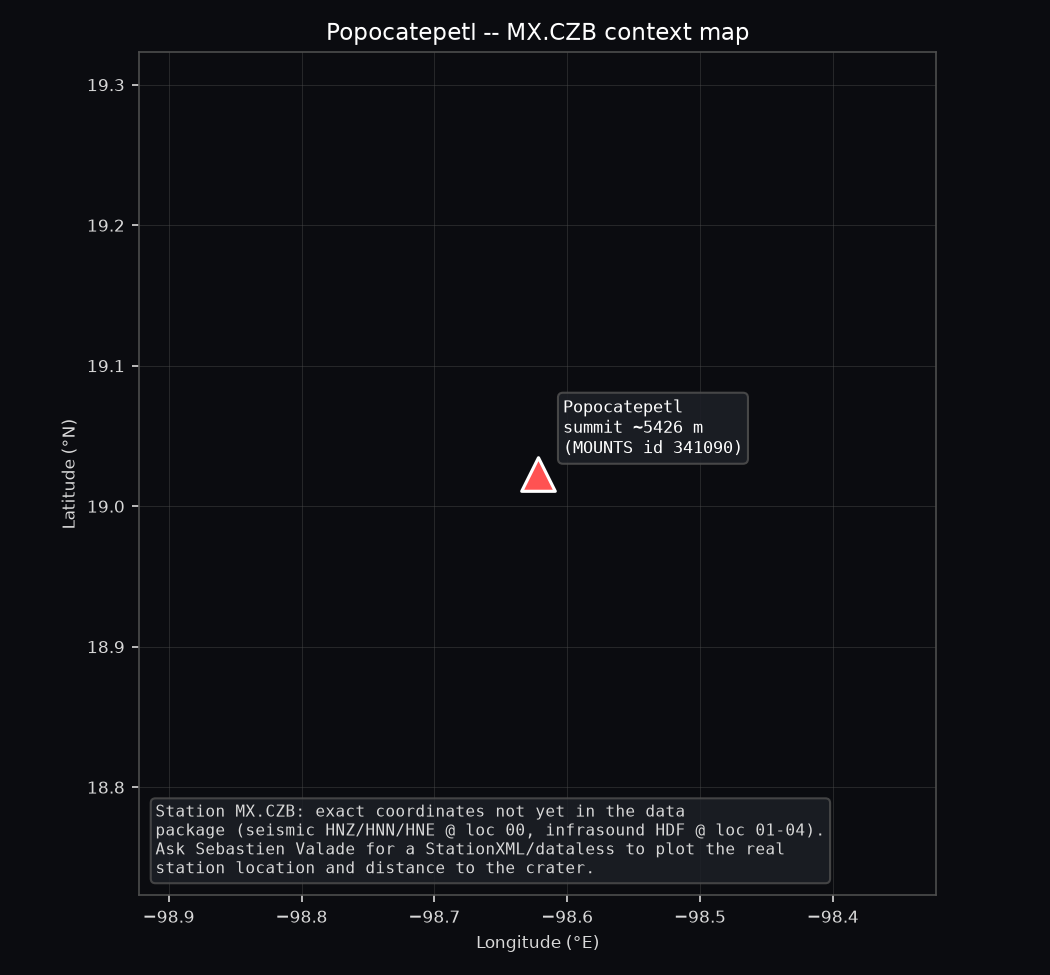
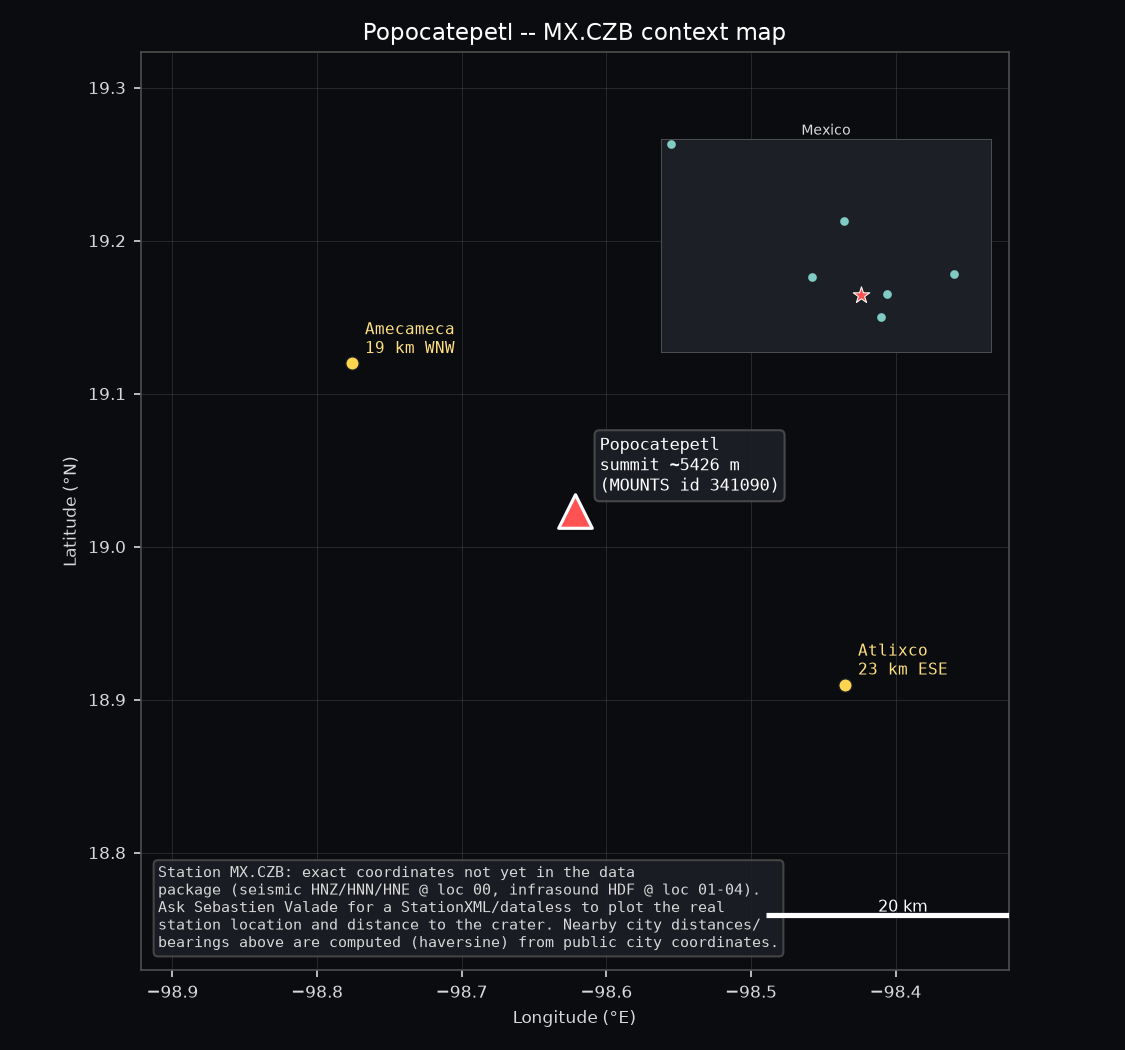
Add real cartography to context map; merge map + satellite time series into one overview figure

diff --git a/POPO01.py b/POPO01.py
@@ -420,39 +420,155 @@ def do_fetch(args):
 # ---------------------------------------------------------------------------
 # Map (single-station location, no country outline asset for Mexico yet)
 # ---------------------------------------------------------------------------
-def do_map():
-    fig, ax = plt.subplots(figsize=(7, 6.5), facecolor=BG_COLOR)
+# Real, well-known reference points used purely to give the map geographic
+# context (city labels + real distances/bearings) -- not an administrative
+# boundary survey. Coordinates are public-knowledge city centers.
+NEARBY_CITIES = [
+    ("Mexico City", 19.4326, -99.1332),
+    ("Puebla",      19.0414, -98.2063),
+    ("Cholula",     19.0638, -98.3020),
+    ("Cuernavaca",  18.9242, -99.2216),
+    ("Amecameca",   19.1197, -98.7756),
+    ("Atlixco",     18.9096, -98.4347),
+]
+
+# Coarser set spanning the whole country, for the "where in Mexico" locator inset.
+MEXICO_LOCATOR_CITIES = [
+    ("Tijuana",     32.5149, -117.0382),
+    ("Monterrey",   25.6866, -100.3161),
+    ("Guadalajara", 20.6597, -103.3496),
+    ("Merida",      20.9674, -89.5926),
+    ("Veracruz",    19.1738, -96.1342),
+    ("Oaxaca",      17.0732, -96.7266),
+]
+
+COMPASS_DIRS = ["N", "NNE", "NE", "ENE", "E", "ESE", "SE", "SSE",
+                "S", "SSW", "SW", "WSW", "W", "WNW", "NW", "NNW"]
+
+
+def haversine_km(lat1, lon1, lat2, lon2):
+    """Great-circle distance in km between two lat/lon points."""
+    r_km = 6371.0
+    p1, p2 = math.radians(lat1), math.radians(lat2)
+    dphi = math.radians(lat2 - lat1)
+    dlambda = math.radians(lon2 - lon1)
+    a = math.sin(dphi / 2) ** 2 + math.cos(p1) * math.cos(p2) * math.sin(dlambda / 2) ** 2
+    return 2 * r_km * math.asin(math.sqrt(a))
+
+
+def bearing_compass(lat1, lon1, lat2, lon2):
+    """16-point compass direction from point 1 towards point 2."""
+    p1, p2 = math.radians(lat1), math.radians(lat2)
+    dlambda = math.radians(lon2 - lon1)
+    x = math.sin(dlambda) * math.cos(p2)
+    y = math.cos(p1) * math.sin(p2) - math.sin(p1) * math.cos(p2) * math.cos(dlambda)
+    brng = (math.degrees(math.atan2(x, y)) + 360) % 360
+    return COMPASS_DIRS[int((brng + 11.25) // 22.5) % 16]
+
+
+def draw_compass_rose(ax, x=0.92, y=0.90, size=0.05):
+    ax.annotate(
+        "N", xy=(x, y), xytext=(x, y - size), xycoords="axes fraction",
+        textcoords="axes fraction", color="white", fontsize=9, weight="bold",
+        ha="center", va="center",
+        arrowprops=dict(arrowstyle="-|>", color="white", lw=1.4),
+    )
+
+
+def draw_scale_bar(ax, lat_for_scale, km=20.0, x=0.06, y=0.06):
+    """Scale bar in data (lon/lat) coordinates, sized so its width equals
+    `km` kilometers at the map's latitude."""
+    km_per_deg_lon = haversine_km(lat_for_scale, 0.0, lat_for_scale, 1.0)
+    width_deg = km / km_per_deg_lon
+    x0, x1 = ax.get_xlim()
+    y0, y1 = ax.get_ylim()
+    bar_x0 = x0 + (x1 - x0) * x
+    bar_y = y0 + (y1 - y0) * y
+    ax.plot([bar_x0, bar_x0 + width_deg], [bar_y, bar_y], color="white", lw=2.5,
+            solid_capstyle="butt", zorder=4)
+    ax.text(bar_x0 + width_deg / 2, bar_y, f"{km:.0f} km", color="white", fontsize=7.5,
+            ha="center", va="bottom", zorder=4)
+
+
+def draw_context_map(ax, compact=False):
+    """Local-scale map centered on the volcano: real nearby cities with
+    computed distance/bearing, compass rose, scale bar. Reused by both the
+    standalone `map` action and the combined satellite overview figure."""
     ax.set_facecolor(BG_COLOR)
+
+    for name, lat, lon in NEARBY_CITIES:
+        dist_km = haversine_km(VOLCANO_LAT, VOLCANO_LON, lat, lon)
+        direction = bearing_compass(VOLCANO_LAT, VOLCANO_LON, lat, lon)
+        ax.scatter([lon], [lat], s=40, marker="o", color="#ffd54f",
+                   edgecolor="#1c1f26", linewidth=0.6, zorder=3)
+        ax.annotate(
+            f"{name}\n{dist_km:.0f} km {direction}",
+            xy=(lon, lat), xytext=(6, 5), textcoords="offset points",
+            color="#ffe082", fontsize=6.5 if compact else 7.5, family="monospace", zorder=3,
+        )
+
     ax.scatter([VOLCANO_LON], [VOLCANO_LAT], s=260, marker="^", color="#ff5252",
-               edgecolor="white", linewidth=1.5, zorder=3)
+               edgecolor="white", linewidth=1.5, zorder=5)
     ax.annotate(
         f"{VOLCANO_NAME}\nsummit ~{VOLCANO_ELEV_M:.0f} m\n(MOUNTS id {MOUNTS_TARGET_ID})",
         xy=(VOLCANO_LON, VOLCANO_LAT), xytext=(12, 10), textcoords="offset points",
-        color="white", fontsize=8, family="monospace",
+        color="white", fontsize=8, family="monospace", zorder=5,
         bbox=dict(boxstyle="round", facecolor="#1c1f26", edgecolor=GRID_COLOR, alpha=0.9),
     )
-    ax.text(
-        0.02, 0.02,
-        f"Station {NETWORK}.{STATION}: exact coordinates not yet in the data\n"
-        f"package (seismic HNZ/HNN/HNE @ loc 00, infrasound HDF @ loc 01-04).\n"
-        f"Ask Sebastien Valade for a StationXML/dataless to plot the real\n"
-        f"station location and distance to the crater.",
-        transform=ax.transAxes, color=FG_COLOR, fontsize=7.5, family="monospace",
-        va="bottom", ha="left",
-        bbox=dict(boxstyle="round", facecolor="#1c1f26", edgecolor=GRID_COLOR, alpha=0.85),
-    )
+    if not compact:
+        ax.text(
+            0.02, 0.02,
+            f"Station {NETWORK}.{STATION}: exact coordinates not yet in the data\n"
+            f"package (seismic HNZ/HNN/HNE @ loc 00, infrasound HDF @ loc 01-04).\n"
+            f"Ask Sebastien Valade for a StationXML/dataless to plot the real\n"
+            f"station location and distance to the crater. Nearby city distances/\n"
+            f"bearings above are computed (haversine) from public city coordinates.",
+            transform=ax.transAxes, color=FG_COLOR, fontsize=7, family="monospace",
+            va="bottom", ha="left",
+            bbox=dict(boxstyle="round", facecolor="#1c1f26", edgecolor=GRID_COLOR, alpha=0.85),
+        )
+
     pad = 0.3
     ax.set_xlim(VOLCANO_LON - pad, VOLCANO_LON + pad)
     ax.set_ylim(VOLCANO_LAT - pad, VOLCANO_LAT + pad)
     ax.set_aspect(1.0 / max(math.cos(math.radians(VOLCANO_LAT)), 1e-6))
     ax.set_xlabel("Longitude (\u00b0E)", color=FG_COLOR, fontsize=8)
     ax.set_ylabel("Latitude (\u00b0N)", color=FG_COLOR, fontsize=8)
-    ax.set_title(f"{VOLCANO_NAME} -- {NETWORK}.{STATION} context map", color="white", fontsize=11)
+    title = f"{VOLCANO_NAME} -- {NETWORK}.{STATION} context map"
+    ax.set_title(title if not compact else title + " (real nearby cities, distances in km)",
+                 color="white", fontsize=11 if not compact else 10)
     ax.grid(True, color=GRID_COLOR, linewidth=0.4, alpha=0.5)
     ax.tick_params(colors=FG_COLOR, labelsize=8)
     for spine in ax.spines.values():
         spine.set_color(GRID_COLOR)
 
+    draw_compass_rose(ax)
+    scale_x = 0.06 if compact else 0.72
+    draw_scale_bar(ax, VOLCANO_LAT, km=20.0, x=scale_x)
+
+    # "Where in Mexico" locator inset -- real coordinates of major cities
+    # spanning the country, plotted to true relative scale, with the volcano
+    # marked, so the local map above isn't floating in an unlabeled void.
+    inset = ax.inset_axes([0.60, 0.60, 0.38, 0.38] if not compact else [0.66, 0.62, 0.32, 0.34])
+    inset.set_facecolor("#1c1f26")
+    for name, lat, lon in MEXICO_LOCATOR_CITIES:
+        inset.scatter([lon], [lat], s=10, color="#80cbc4", zorder=2)
+    inset.scatter([VOLCANO_LON], [VOLCANO_LAT], s=70, marker="*", color="#ff5252",
+                  edgecolor="white", linewidth=0.5, zorder=3)
+    inset.set_xlim(-118, -86)
+    inset.set_ylim(14, 33)
+    inset.set_aspect(1.0 / max(math.cos(math.radians(23)), 1e-6))
+    inset.set_title("Mexico", color=FG_COLOR, fontsize=6.5, pad=2)
+    inset.set_xticks([])
+    inset.set_yticks([])
+    for spine in inset.spines.values():
+        spine.set_color(GRID_COLOR)
+        spine.set_linewidth(0.5)
+
+
+def do_map():
+    fig, ax = plt.subplots(figsize=(7.5, 7), facecolor=BG_COLOR)
+    draw_context_map(ax)
     map_path = os.path.join(MAP_DIR, "station_map.png")
     fig.tight_layout()
     fig.savefig(map_path, dpi=150, facecolor=fig.get_facecolor())
@@ -1014,11 +1130,18 @@ def do_satellite_fetch(sat_types, target_id, time_filter, debug=False):
 
 
 def do_satellite_plot(series, target_id):
+    """Combined overview figure: a real-geography context map on top (so the
+    time series below aren't floating without any sense of place), followed
+    by one panel per satellite series."""
     n = len(series)
-    fig, axes = plt.subplots(n, 1, figsize=(11, max(5, 2.2 * n)), facecolor=BG_COLOR, sharex=False)
-    if n == 1:
-        axes = [axes]
-    for ax, sat_type in zip(axes, series):
+    fig = plt.figure(figsize=(11, 6.5 + 2.1 * n), facecolor=BG_COLOR)
+    gs = fig.add_gridspec(n + 1, 1, height_ratios=[2.4] + [1.0] * n, hspace=0.55)
+
+    map_ax = fig.add_subplot(gs[0])
+    draw_context_map(map_ax, compact=True)
+
+    for i, sat_type in enumerate(series):
+        ax = fig.add_subplot(gs[i + 1])
         times, values = series[sat_type]
         _, name, color, _ = SAT_TYPE_INFO[sat_type]
         dt = [datetime.utcfromtimestamp(t) for t in times]
@@ -1026,9 +1149,11 @@ def do_satellite_plot(series, target_id):
         ax.set_title(name, color="white", fontsize=10, loc="left")
         style_axes(ax)
         ax.grid(True, color=GRID_COLOR, linewidth=0.4, alpha=0.5)
-    fig.suptitle(f"{VOLCANO_NAME} -- MOUNTS satellite time series (target_id {target_id})",
-                 color="white", fontsize=11)
-    fig.tight_layout(rect=(0, 0, 1, 0.96))
+    fig.suptitle(f"{VOLCANO_NAME} -- location + MOUNTS satellite time series (target_id {target_id})",
+                 color="white", fontsize=12)
+    # Not tight_layout(): inset_axes (the Mexico locator) isn't compatible with it
+    # and produces a large blank gap above the map -- position panels manually instead.
+    fig.subplots_adjust(top=0.95, bottom=0.03, left=0.08, right=0.97, hspace=0.55)
     plot_path = os.path.join(SAT_PLOT_DIR, "popo_satellite.png")
     fig.savefig(plot_path, dpi=150, facecolor=fig.get_facecolor())
     plt.close(fig)

diff --git a/README.md b/README.md
@@ -33,15 +33,18 @@ Real output, generated by this toolkit from Sebastien Valade's full MOUNTS
 historical export for Popocatepetl (2015-2026, thousands of real measurements) --
 not mockups or synthetic placeholders.
 
-**Satellite time series** -- SO2 mass, thermal hot pixels, InSAR deformation and
-coherence, all four sonified from the same real dataset (run
-`python POPO01.py satellite --play` to generate and listen to the `.wav`
-files locally -- they aren't committed to the repo, see
+**Where + what**: the `satellite` action now renders one combined figure --
+a real-geography context map (nearby cities with computed distance/bearing,
+compass rose, scale bar, and a "where in Mexico" locator inset, all from real
+public coordinates) on top of the four MOUNTS series below it, so location
+and activity read as a single explanation instead of two disconnected images
+(run `python POPO01.py satellite --play` to also generate and listen to the
+`.wav` files locally -- they aren't committed to the repo, see
 [Output folder layout](#output-folder-layout)):
 
-![Popocatepetl MOUNTS satellite time series 2015-2026](docs/images/popo_satellite.png)
+![Popocatepetl location and MOUNTS satellite time series 2015-2026](docs/images/popo_satellite.png)
 
-**Station / volcano context map**, generated by the `map` action:
+**Standalone context map** (same map, on its own), generated by the `map` action:
 
 <img src="docs/images/station_map.png" alt="Popocatepetl / MX.CZB context map" width="520">
 
@@ -257,7 +260,10 @@ Both sources feed the same downstream pipeline:
    the API's shape changes.
 2. **Zero-map** `apply_zero_mapping()` -- replaces known "no detection"
    sentinel values with `0` (see [below](#zero-mapping-sentinel-values)).
-3. **Plot** `do_satellite_plot()` -- one panel per series, saved to
+3. **Plot** `do_satellite_plot()` -- a real-geography context map
+   (`draw_context_map()`: nearby cities with computed distance/bearing,
+   compass rose, scale bar, "where in Mexico" locator inset) followed by one
+   panel per series, all in a single combined figure saved to
    `datasets/satellite/plot/popo_satellite.png`.
 4. **Sonify** `sonify_timeseries()` -- each `(time, value)` point becomes a
    short pitched grain (150 ms, raised-cosine envelope, no clicks): **pitch**
